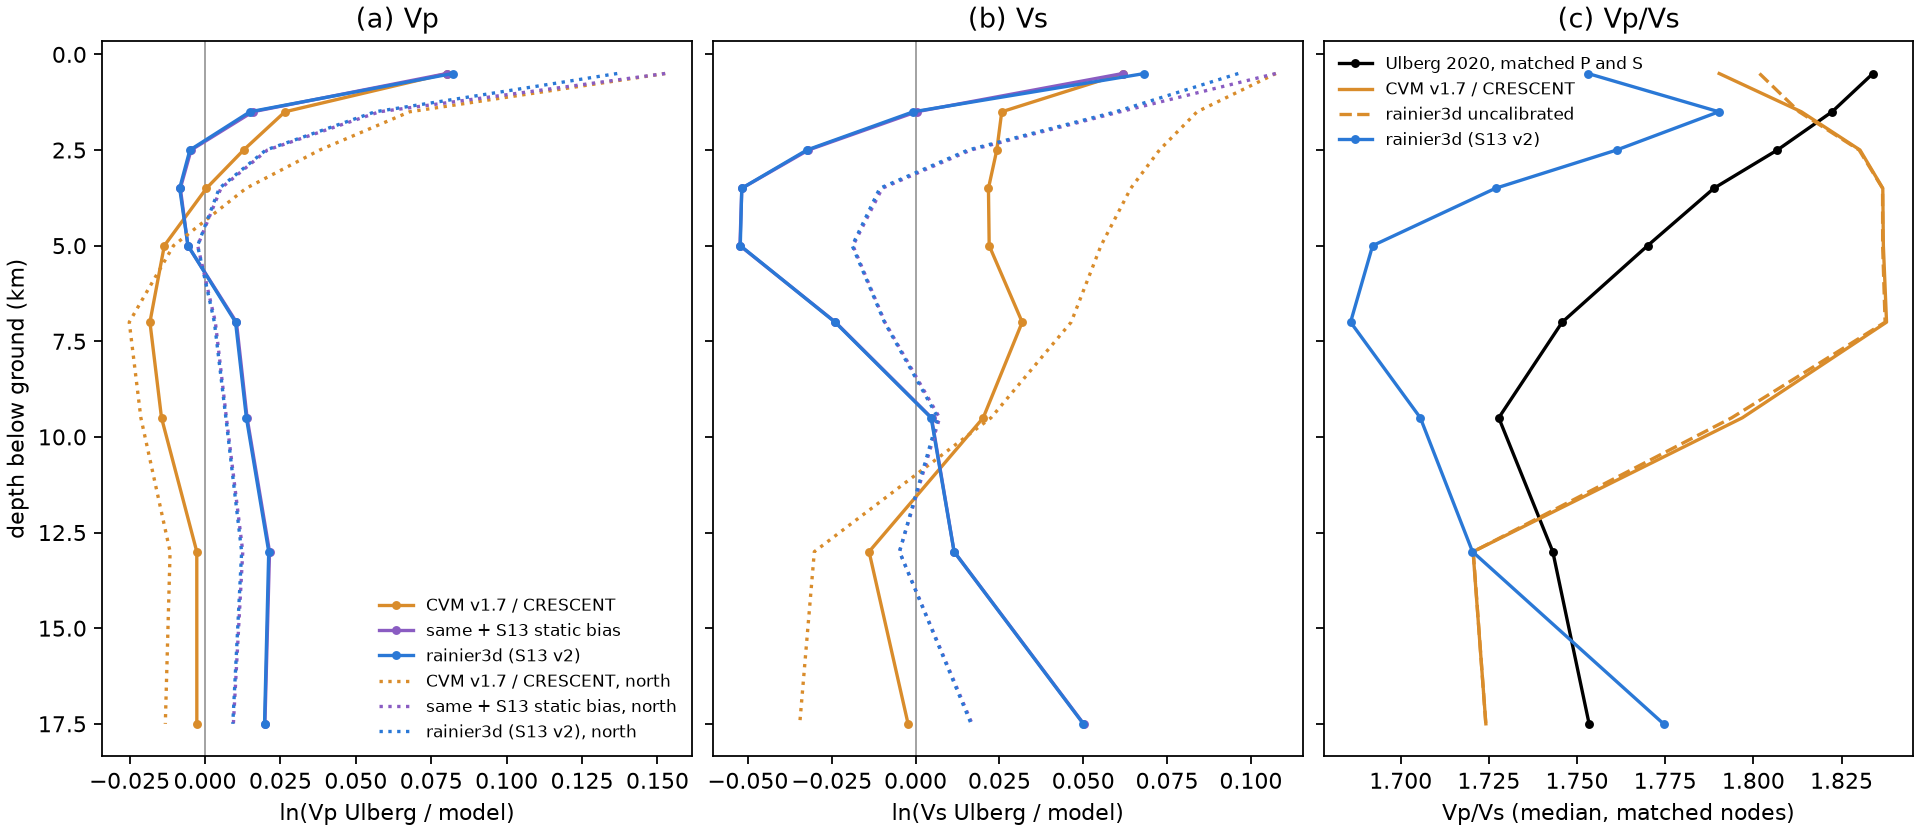
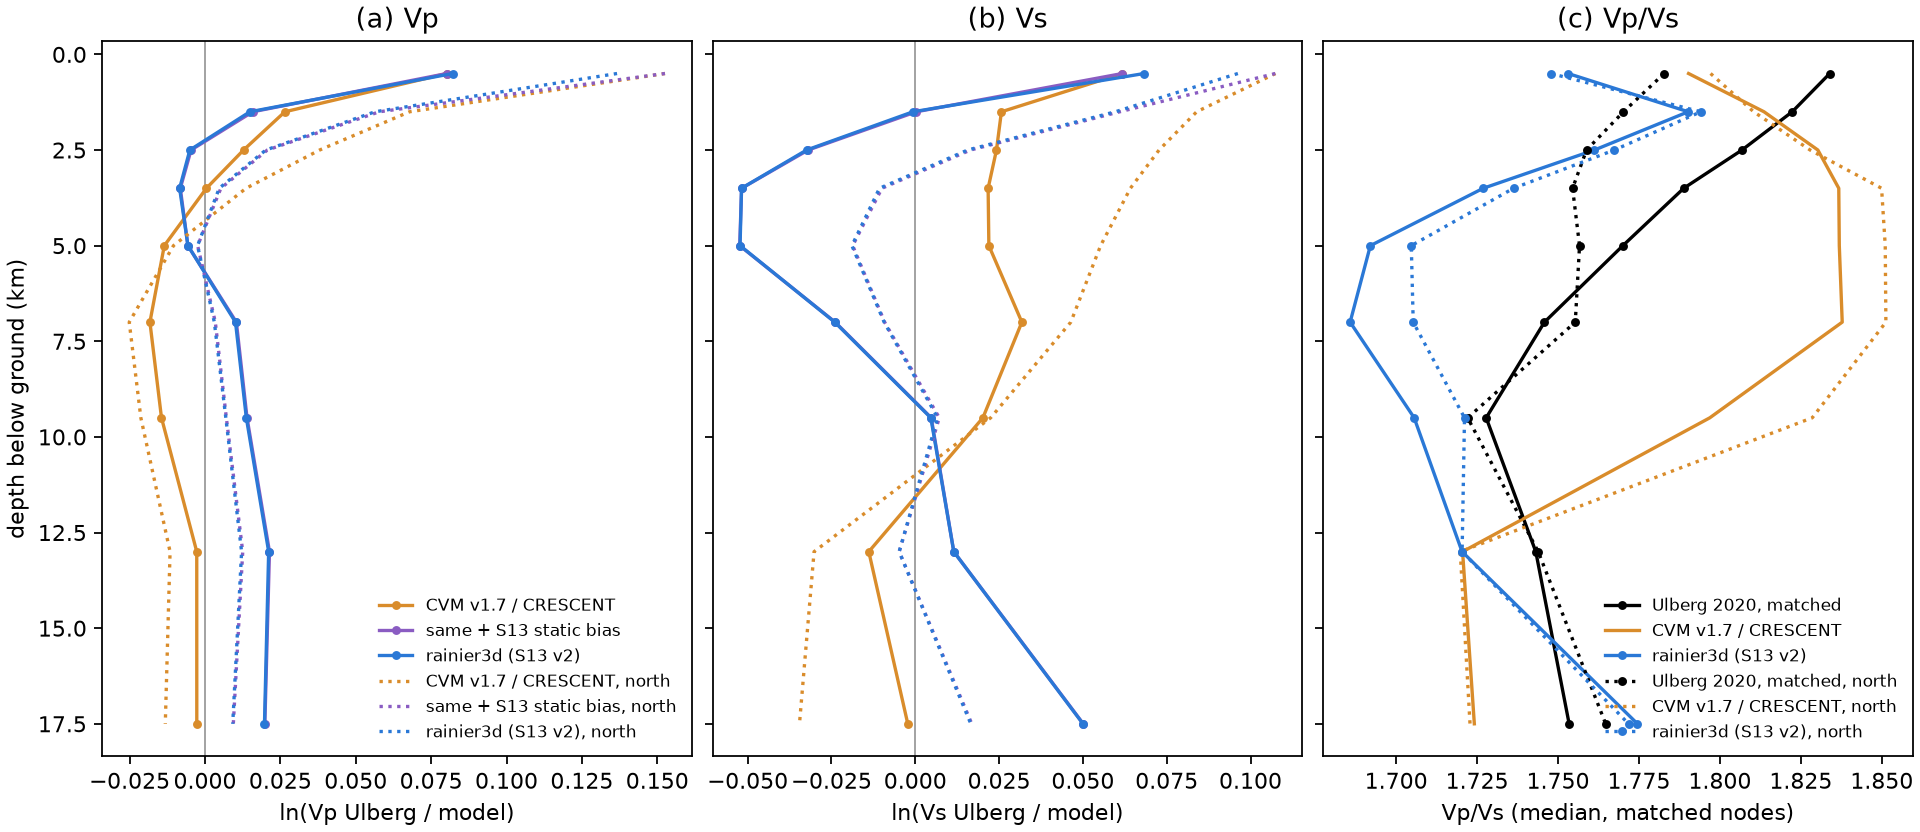
Velocity model: compare with the iMUSH tomography (S21); bibliography from this branch
S21 samples rainier3d and CVM v1.7 / CRESCENT at the 51,300 unmasked nodes of the
Ulberg et al. (2020) iMUSH Vp/Vs model inside the domain. North of 46.75 N it finds CVM
Vs 5-8% slow at 1-8 km and 3-4% fast at 11-20 km, the shape of the S13 static bias; with
the bias the Vs difference falls to <= 2% below 2 km. Inside the iMUSH array (south of
46.65 N) the same bias makes Vs 5-7% too fast at 2-6 km, so the correction is local to
Rainier. rainier3d Vp/Vs at 4-8 km (1.705) sits ~0.05 below iMUSH (1.755).

docs/joint_calibration.md: new section 4.7, abstract and 5.3/5.4 updated.
configs/sources.yaml: ulberg_2020 (EMC dataset and article DOIs, verified via Crossref).
docs/references.bib and citations.csv regenerated from this branch's registry.

diff --git a/scripts/21_compare_imush.py b/scripts/21_compare_imush.py
@@ -125,12 +125,17 @@ def figure(tab: pd.DataFrame, path):
         ax[j].set(
             xlabel=f"ln({v.upper()[0]}{v[1]} Ulberg / model)", title=f"({'ab'[j]}) {v[0].upper()}{v[1:]}"
         )
-    t = tab[tab.region == "all"]
-    z = t.depth_bg_m.map(mid)
-    ax[2].plot(t.vpvs_ulberg_matched, z, "k-o", ms=3, label="Ulberg 2020, matched P and S")
-    ax[2].plot(t.vpvs_regional, z, "-", color="#d98c2b", label="CVM v1.7 / CRESCENT")
-    ax[2].plot(t.vpvs_fused_uncal, z, "--", color="#d98c2b", label="rainier3d uncalibrated")
-    ax[2].plot(t.vpvs_fused_v2, z, "-o", ms=3, color="#2a78d6", label="rainier3d (S13 v2)")
+    for reg, ls in (("all", "-"), ("north", ":")):
+        t = tab[tab.region == reg]
+        z = t.depth_bg_m.map(mid)
+        sfx = "" if reg == "all" else ", north"
+        ax[2].plot(
+            t.vpvs_ulberg_matched, z, ls, color="k", marker="o", ms=3, label=f"Ulberg 2020, matched{sfx}"
+        )
+        ax[2].plot(t.vpvs_regional, z, ls, color="#d98c2b", label=f"CVM v1.7 / CRESCENT{sfx}")
+        ax[2].plot(
+            t.vpvs_fused_v2, z, ls, color="#2a78d6", marker="o", ms=3, label=f"rainier3d (S13 v2){sfx}"
+        )
     ax[2].set(xlabel="Vp/Vs (median, matched nodes)", title="(c) Vp/Vs")
     ax[0].set_ylabel("depth below ground (km)")
     ax[0].invert_yaxis()

diff --git a/docs/joint_calibration.md b/docs/joint_calibration.md
@@ -22,6 +22,8 @@ Here we fit the geology model itself to 1823 P and 1280 S analyst picks from 88 
 
 On held-out events, the RMS after relocation falls from 0.121 to 0.093 s for P and from 0.317 to 0.188 s for S. The data resolve V0 at ×1.31 ± 0.02. P* stays close to its placeholder, and rock Vs falls by 2.4 ± 1.2%. After calibration, the geology model and the bias-corrected regional model agree within 3.5% between 0.3 and 4 km depth. As a result, the fusion invariant that failed before calibration (0.032) and after the first calibration (0.050) now passes at 0.012. Median Vp/Vs at 2–4 km is 1.74. The calibration takes 26 minutes on a laptop.
 
+We check the result against the iMUSH local-earthquake tomography [@ulberg_2020_article]. Near Rainier, that model independently finds CVM v1.7 Vs 5–8% too slow at 1–8 km depth, matching the shape of our correction. South of 46.65°N, however, our correction makes Vs 5–7% too fast. It is therefore local to Rainier, not a regional correction. Our Vp/Vs at 4–8 km is about 0.05 below the iMUSH value.
+
 ## 1. Motivation
 
 The rainier3d model is meant as a best-guess starting model: data gathered and made consistent now, to be refined later with more earthquakes and sensors. Any calibration of it should therefore act on physical parameters that later work can inherit and test, not on factors that only make the numbers fit. Three problems motivated this run.
@@ -227,6 +229,42 @@ Sources: `outputs/relocation/s5_nocal.log`, `outputs/vs_calibration/s5_cal.log`,
 
 The Qp = 2 Qs rule of the model implies a negative bulk quality factor below Vp/Vs = √(8/3). The cells affected fall to 11,738, from 30,086 with S12.
 
+### 4.7 Comparison with the iMUSH tomography
+
+Ulberg et al. [-@ulberg_2020_article] inverted local-earthquake and active-source arrivals recorded by the 70-station iMUSH array and PNSN for Vp and Vs on 1.2 km nodes. We use the EMC file (`iMUSH-localEQ-Ulberg-2020.r0.0-n4c.nc`, [@ulberg_2020]). Its depth axis is km below sea level: the EMC page and figure captions say so, although the netCDF `long_name` says "below earth surface". Only nodes with checkerboard recovery of 20 km features are unmasked.
+
+Coverage of our domain differs by phase:
+
+| Model | Area resolved, 0–14 km below sea level |
+|---|---|
+| Vp | 82–90% of the domain |
+| Vs, south (< 46.65°N, inside the array) | 83–93% |
+| Vs, north (≥ 46.75°N, Rainier) | 11–19% |
+
+S21 (`scripts/21_compare_imush.py`) samples our models at the 51,300 unmasked nodes below ground inside the domain.
+
+**Table 9.** Mean ln(V_Ulberg / V_model) by depth below ground, north of 46.75°N. "Regional" is CVM v1.7 / CRESCENT as distributed; "+ bias" includes the S13 static bias. Source: `outputs/model_comparison/ulberg2020_by_depth.csv`.
+
+| Depth (km) | 1–2 | 2–3 | 3–4 | 4–6 | 6–8 | 8–11 | 11–15 | 15–20 |
+|---|---|---|---|---|---|---|---|---|
+| Vs, regional | 0.084 | 0.073 | 0.064 | 0.055 | 0.046 | 0.022 | −0.030 | −0.035 |
+| Vs, regional + bias | 0.061 | 0.016 | −0.010 | −0.019 | −0.009 | 0.007 | −0.005 | 0.017 |
+| Vp, regional | 0.068 | 0.038 | 0.014 | −0.010 | −0.025 | −0.021 | −0.012 | −0.013 |
+| Vp, regional + bias | 0.058 | 0.021 | 0.005 | −0.002 | 0.003 | 0.007 | 0.013 | 0.009 |
+| Vp/Vs, Ulberg (matched) | 1.770 | 1.759 | 1.754 | 1.757 | 1.755 | 1.722 | 1.744 | 1.765 |
+| Vp/Vs, regional | 1.810 | 1.828 | 1.850 | 1.851 | 1.851 | 1.829 | 1.720 | 1.723 |
+| Vp/Vs, rainier3d S13 v2 | 1.794 | 1.767 | 1.736 | 1.705 | 1.705 | 1.721 | 1.720 | 1.772 |
+
+**Near Rainier, the iMUSH model supports the correction.** Relative to CVM v1.7, Ulberg's Vs is 5–8% faster at 1–8 km and 3–4% slower at 11–20 km, the same shape as our bias (Table 3). With the bias applied, the Vs difference below 2 km falls to 2% or less, and Vp/Vs moves from CVM's 1.83–1.85 towards Ulberg's 1.75–1.77.
+
+**Our Vp/Vs goes too low at 4–8 km.** There it is 1.705, about 0.05 below Ulberg's.
+
+**In the south the bias overshoots.** Inside the iMUSH array, Ulberg's Vs is within 1–2% of CVM v1.7 at 1–6 km, and the bias makes our Vs 5–7% too fast there (2–6 km). The correction is therefore local to Rainier. A depth-only profile fitted to Rainier-area arrivals cannot be applied across the domain.
+
+**The two data sets are not fully independent.** Both use PNSN arrivals from the 2015–2016 period, where our event set overlaps the iMUSH deployment. The iMUSH-only stations and the active-source shots make Ulberg's model largely independent south of Rainier, but less so to the north.
+
+![Figure 5. rainier3d and its baseline against the iMUSH tomography (Ulberg et al. 2020). (a, b) Mean ln(V_Ulberg / V_model) by depth below ground over the domain (solid) and north of 46.75°N (dotted). (c) Median Vp/Vs at nodes where Ulberg's matched P and S models are both resolved.](joint_calibration/fig5_imush_comparison.png)
+
 ## 5. Discussion
 
 ### 5.1 What the first calibration taught
@@ -243,7 +281,7 @@ The first S13 run (`configs/velocity_calibration_v1.yaml`) put depth factors on 
 
 ### 5.3 Proposal: static bias of the baseline models
 
-For users of CVM v1.7 and CRESCENT at Mount Rainier, and for the model's authors, we propose Table 3 as a static correction of the baseline. It is a single depth profile per phase, fitted jointly with our geology to the PNSN arrivals.
+For users of CVM v1.7 and CRESCENT at Mount Rainier, and for the model's authors, we propose Table 3 as a static correction of the baseline. It is a single depth profile per phase, fitted jointly with our geology to the PNSN arrivals. The iMUSH tomography confirms its shape near Rainier but not inside the iMUSH array (Section 4.7). The correction should therefore be read as varying laterally. The next version should let it vary between the Rainier area and the south of the domain rather than keeping one profile for the whole domain.
 
 The top 300 m is left open (Table 4). There, CVM v1.7's near-surface layer is 20–30% slower than our rock model. The arrivals constrain it only directly beneath the 50 stations. Two independent data sets can settle it:
 - **Vs30 and near-surface Vs:** the node and fiber arrays and site measurements. If they side with CVM, the unconsolidated and weathered layers of the geology model need thickening, not the rock V0 lowering.
@@ -253,6 +291,7 @@ The top 300 m is left open (Table 4). There, CVM v1.7's near-surface layer is 20
 
 - **Station terms were not estimated.** Site effects beneath stations may partly project onto V0.
 - **The geology multipliers are global.** Per-lithology multipliers need more stations on plutonic and sedimentary units (Section 4.2).
+- **The static bias is one profile for the whole domain.** The iMUSH comparison shows it overcorrects Vs by 5–7% at 2–6 km south of 46.65°N.
 - **Resolution below 11 km is limited.** Only 30 events are deeper than 11 km and 8 deeper than 16 km (`outputs/relocation/fused_joint/catalog.csv`).
 - **Environment hazard.** Every `pixi run` in this checkout reinstalls pykonal, which is built from its source distribution on this platform, and this crashed two runs. S13 was run with `.pixi/envs/default/bin/python` directly. A prebuilt wheel or a conda-forge package would remove the problem.
 
@@ -266,6 +305,7 @@ $PY scripts/06_validate_pnsn.py && $PY -m pytest -q tests
 $PY scripts/14_relocate.py --model data/processed/model.zarr --name fused_joint --skin 1   # 1.5 min per model
 $PY scripts/14_relocate.py --model 1d --name pnsn1d --skin 1
 $PY scripts/16_relocation_figures.py
+$PY scripts/21_compare_imush.py                     # needs data/raw/emc/iMUSH-localEQ-Ulberg-2020.r0.0-n4c.nc (URL in the script)
 pixi run bib
 ```
 
@@ -273,4 +313,4 @@ S13 needs no base model; it builds the uncalibrated model in memory. The S14 com
 
 ## References
 
-The full list is in `docs/references.bib`. The keys cited here are: brocher_2005, crescent_gen0, cvm17_article, heap2021, huber_1964, kissling_1994, lomax_2000, pavlis_booker_1980, thurber_1983, watters2000, white_2020.
+The full list is in `docs/references.bib`. The keys cited here are: brocher_2005, crescent_gen0, cvm17_article, heap2021, huber_1964, kissling_1994, lomax_2000, pavlis_booker_1980, thurber_1983, ulberg_2020, ulberg_2020_article, watters2000, white_2020.
